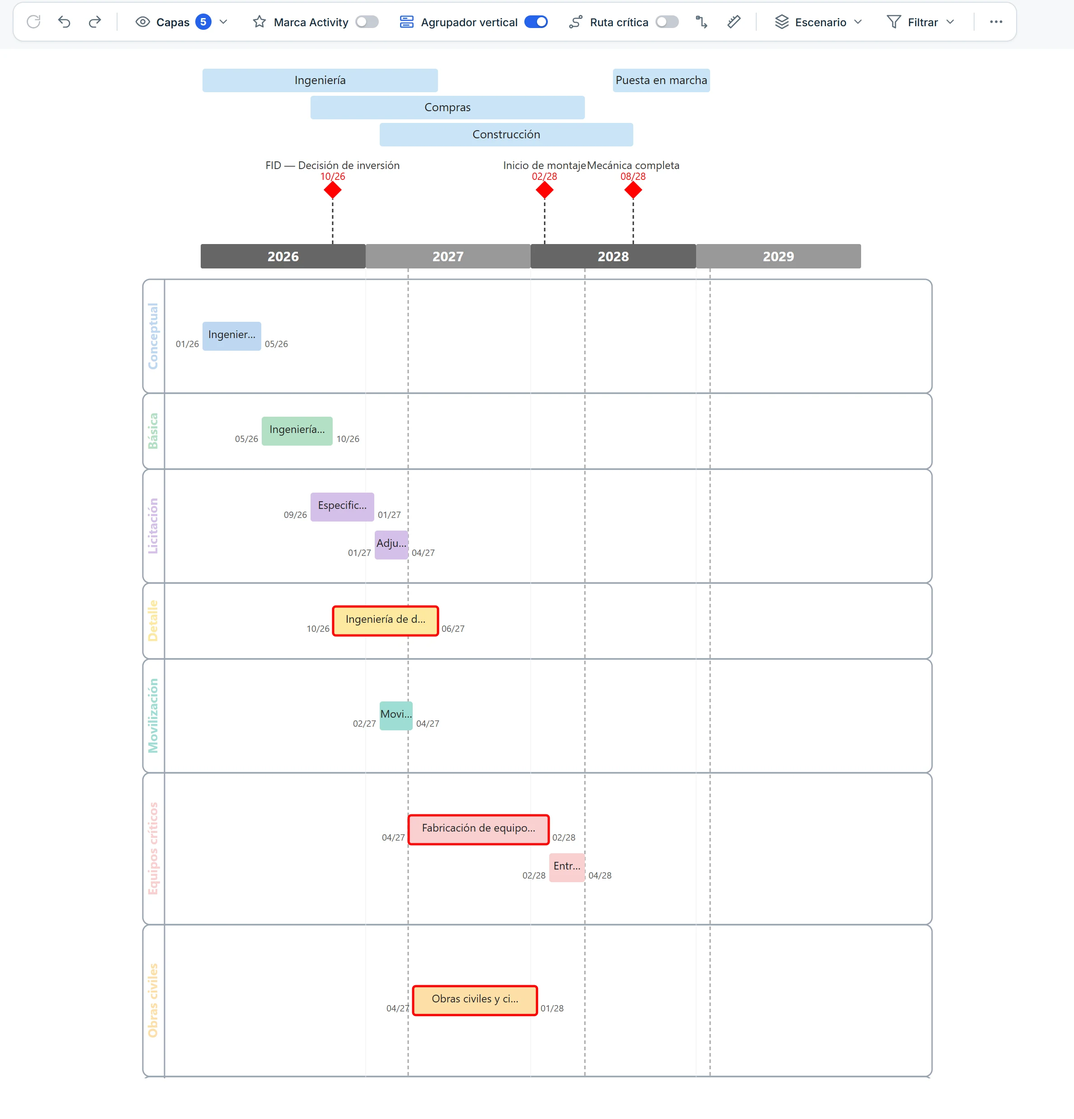
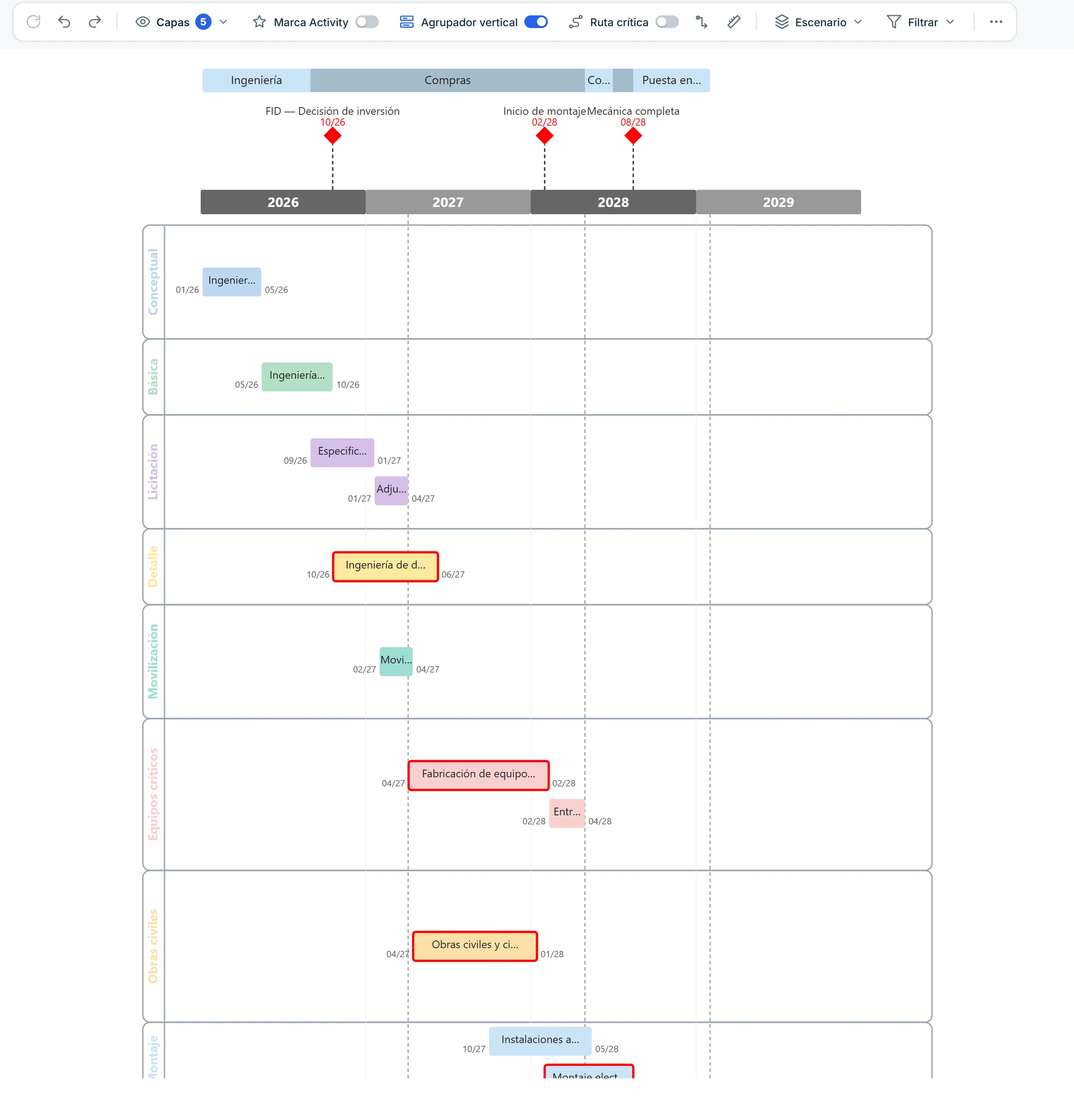
LdT: borde configurable en años y barras; Agrupador horizontal en una fila con colores mezclados; hitos arrastrables
- Borde (grosor, estilo, color) para cada año y cada barra de tarea, con el menú de borde existente
- Agrupador horizontal: una sola fila; los tramos superpuestos se pintan con la mezcla de colores y los nombres se abrevian a su tramo
- Un hito puede pasar por encima del agrupador horizontal (sin agrandar el área) y se arrastra con el mouse para cambiar su Distancia al eje
- Manual e Historial actualizados; figuras recapturadas

diff --git a/src/OpenGanttLab 3.1.html b/src/OpenGanttLab 3.1.html
@@ -1904,6 +1904,10 @@ tr.ed-mv input.eirp,tr.ed-mv input.efrp,tr.ed-mv input.edur{background:#fff1cf;b
       <span id="pbmSwatch" style="width:22px;height:16px;display:inline-block;border:1px solid var(--line);border-radius:2px;cursor:pointer" title="Clic para cambiar color barra"></span>
       <span class="pop-unit" style="font-size:8px">clic para cambiar</span>
     </div>
+    <div id="pbmBorderRow" style="display:flex;align-items:center;gap:5px;font-size:10px">
+      <span class="pop-unit" style="min-width:40px">Borde:</span>
+      <button type="button" class="rb-flat" style="padding:2px 8px" onclick="presOpenBarBorder(event)" title="Grosor, estilo y color del contorno de la barra">Configurar…</button>
+    </div>
     <div id="pbmPatternRow" style="display:flex;align-items:center;gap:5px;font-size:10px">
       <span class="pop-unit" style="min-width:40px">Trama:</span>
       <select id="pbmPattern" class="rb-sel" onchange="presSetPattern(this.value)" style="flex:1;max-width:none">
@@ -2382,6 +2386,10 @@ tr.ed-mv input.eirp,tr.ed-mv input.efrp,tr.ed-mv input.edur{background:#fff1cf;b
       <option value="14">14</option><option value="15" selected>15</option><option value="16">16</option>
       <option value="18">18</option><option value="20">20</option><option value="24">24</option>
     </select>
+  </div>
+  <div style="display:flex;align-items:center;gap:8px;margin-bottom:8px">
+    <span style="font-size:10px;color:#666;min-width:42px">Borde:</span>
+    <button type="button" onclick="presOpenYearBorder(event)" style="font-size:10px;padding:2px 8px;cursor:pointer;border:1px solid #ccc;border-radius:3px;background:#f5f5f5">Configurar…</button>
   </div>
   <div style="display:flex;align-items:center;gap:8px;margin-bottom:8px" title="Une este año con los siguientes en una sola banda de la franja">
     <span style="font-size:10px;color:#666;min-width:42px">Unir hasta:</span>
@@ -5089,7 +5097,7 @@ function _buildShareBlob(shared){
   const data={shared:!!shared,sessionName:AP_SESSION_NAME,tasks:TASKS.map(t=>({id:t.id,escenario:t.escenario||'',c1:t.c1,c2:t.c2,tarea:t.tarea,iLB:isoLocal(t.iLB),fLB:isoLocal(t.fLB),iRP:isoLocal(t.iRP),fRP:isoLocal(t.fRP),av:t.av,hito:t.hito,evento:t.evento,crit:t.crit,marca2:t.marca2||'',summary:t.summary||false,pid:t.pid||'',preds:t.preds||'',pscope:t.pscope||''})),
     scenarios:SCENARIOS,on:SCEN_ON,color:SCEN_COLOR,escColor:ESC_COLOR,cat2color:CAT2_COLOR,eventocolor:EVENTO_COLOR,presOpts:PRES_OPTS,presHidden:[...PRES_HIDDEN_KEYS],presTextBoxes:PRES_TEXTBOXES,presShapes:PRES_SHAPES,ganttTextBoxes:GANTT_TEXTBOXES,ganttOrder:GANTT_ORDER,ganttC2Order:GANTT_C2_ORDER,ganttTaskOrder:GANTT_TASK_ORDER,
     scale:document.getElementById('scale').value,mode:document.querySelector('input[name=mode]:checked').value,
-    showLB:document.getElementById('showLB').checked,showDeps:document.getElementById('showDeps').checked,showDates:document.getElementById('showDates').checked,presShowDates:document.getElementById('presShowDates').checked,presShowSubproc:(document.getElementById('presShowSubproc')||{}).checked,presSubprocField:(document.getElementById('presSubprocField')||{}).value,presSubprocGap:(document.getElementById('presSubprocGap')||{}).value,presSubprocPos:(document.getElementById('presSubprocPos')||{}).value,presSubprocColor:_presSubprocCol,presSubprocColors:_presSubprocColors,presYearMerge:PRES_YEAR_MERGE,presSubprocStyle:_presSubprocStyle,presConnectors:PRES_CONNECTORS,presLegendCfg:PRES_LEGEND_CFG,
+    showLB:document.getElementById('showLB').checked,showDeps:document.getElementById('showDeps').checked,showDates:document.getElementById('showDates').checked,presShowDates:document.getElementById('presShowDates').checked,presShowSubproc:(document.getElementById('presShowSubproc')||{}).checked,presSubprocField:(document.getElementById('presSubprocField')||{}).value,presSubprocGap:(document.getElementById('presSubprocGap')||{}).value,presSubprocPos:(document.getElementById('presSubprocPos')||{}).value,presSubprocColor:_presSubprocCol,presSubprocColors:_presSubprocColors,presYearMerge:PRES_YEAR_MERGE,presSubprocStyle:_presSubprocStyle,presYearBorder:PRES_YEAR_BORDER,presConnectors:PRES_CONNECTORS,presLegendCfg:PRES_LEGEND_CFG,
     presExtraH:+document.getElementById('presExtraH').value||0,presExtraTop:+document.getElementById('presExtraTop').value||0,presExtraBottom:+(document.getElementById('presExtraBottom')||{value:0}).value||0,presExtraLeft:+(document.getElementById('presExtraLeft')||{value:0}).value||0,presExtraRight:+(document.getElementById('presExtraRight')||{value:0}).value||0,presLegendPos:PRES_LEGEND_POS,presLegendSize:PRES_LEGEND_SIZE,
     fontFamily:document.getElementById('fontFamily').value,
     fontSizes:{dates:document.getElementById('fsDates').value,months:document.getElementById('fsMonths').value,years:document.getElementById('fsYears').value,cat1:document.getElementById('fsCat1').value,cat2:document.getElementById('fsCat2').value,tasks:document.getElementById('fsTasks').value},
@@ -5282,6 +5290,7 @@ function loadEmbedded(){
   _presSubprocColors=Object.assign({},d.presSubprocColors||{});
   PRES_YEAR_MERGE=Object.assign({},d.presYearMerge||{});
   _presSubprocStyle=Object.assign({},d.presSubprocStyle||{});
+  PRES_YEAR_BORDER=Object.assign({},d.presYearBorder||{});
   PRES_CONNECTORS=Array.isArray(d.presConnectors)?d.presConnectors:[];
   if(d.presLegendCfg)PRES_LEGEND_CFG=Object.assign({field:'c2',titleOn:false,title:'',titleSize:12,titleColor:'#2c3e50',fs:10,box:true,style:'swatch',hidden:[]},d.presLegendCfg);
   if(d.presExtraH!=null)document.getElementById('presExtraH').value=d.presExtraH;
@@ -5702,11 +5711,13 @@ function _pbmSyncMitoShape(o){
   const ta=document.getElementById('pbmMitoNote');if(ta&&document.activeElement!==ta)ta.value=(o&&o.miNote)||'';
 }
 // Borde de los rectángulos agrupadores (verticales: PRES_OPTS['RAPC1|'+valor]; horizontales: _presSubprocStyle[valor])
-let _presSubprocStyle={},_presBorderCtx=null;
+let _presSubprocStyle={},_presBorderCtx=null,PRES_YEAR_BORDER={};   // PRES_YEAR_BORDER: año (o 'LB'+año) → {borderW,borderColor,borderDash}
 function presDashAttr(d){return d==='dotted'?' stroke-dasharray="2,3"':d==='dashed'?' stroke-dasharray="8,4"':d==='dashed2'?' stroke-dasharray="10,4,2,4"':'';}
 function presBorderAttr(o,defCol,defW){return' stroke="'+((o&&o.borderColor)||defCol)+'" stroke-width="'+((o&&o.borderW!=null&&o.borderW!=='')?o.borderW:defW)+'"'+presDashAttr(o&&o.borderDash);}
 function _presBorderObj(ctx){
   if(ctx.kind==='rap'){const k='RAPC1|'+ctx.key;if(!PRES_OPTS[k])PRES_OPTS[k]={};return PRES_OPTS[k];}
+  if(ctx.kind==='year'){if(!PRES_YEAR_BORDER[ctx.key])PRES_YEAR_BORDER[ctx.key]={};return PRES_YEAR_BORDER[ctx.key];}
+  if(ctx.kind==='bar'){if(!PRES_OPTS[ctx.key])PRES_OPTS[ctx.key]={};return PRES_OPTS[ctx.key];}
   if(!_presSubprocStyle[ctx.key])_presSubprocStyle[ctx.key]={};return _presSubprocStyle[ctx.key];
 }
 function presOpenBorderMenu(kind,key,x,y){
@@ -5715,15 +5726,17 @@ function presOpenBorderMenu(kind,key,x,y){
   if(!m){m=document.createElement('div');m.id='presBorderMenu';m.style.cssText='position:fixed;z-index:100005;background:#fff;border:1px solid #ccc;border-radius:6px;box-shadow:0 4px 14px rgba(0,0,0,.18);padding:10px;width:220px;font-size:11px;color:#333;display:none';document.body.appendChild(m);
     document.addEventListener('mousedown',e=>{if(m.style.display!=='none'&&!m.contains(e.target)&&!e.target.closest('#colorPicker'))m.style.display='none';},true);}
   const o=_presBorderObj(_presBorderCtx),bw=(o.borderW!=null&&o.borderW!=='')?o.borderW:(kind==='rap'?1.5:0);
-  const dash=o.borderDash||'solid',col=o.borderColor||(kind==='rap'?'#9aa5b1':'#7a8ea3');
+  const dash=o.borderDash||'solid',col=o.borderColor||(kind==='rap'?'#9aa5b1':(kind==='year'||kind==='bar')?'#333333':'#7a8ea3');
   const S=(v,t)=>'<option value="'+v+'"'+(dash===v?' selected':'')+'>'+t+'</option>';
-  m.innerHTML='<div style="font-weight:700;margin-bottom:8px">Borde · '+String(key).replace(/</g,'&lt;')+'</div>'
+  m.innerHTML='<div style="font-weight:700;margin-bottom:8px">'+(kind==='bar'?'Borde de la barra':kind==='year'?'Borde del año '+String(key).replace(/^LB/,''):'Borde · '+String(key).replace(/</g,'&lt;'))+'</div>'
    +(kind==='rap'?'<div style="display:flex;gap:8px;align-items:center;margin-bottom:8px"><span style="min-width:44px;color:#666">Forma:</span><select id="pbdShape" onchange="presBorderSet()" style="flex:1;font:inherit;font-size:11px;padding:2px 4px;border:1px solid #ccc;border-radius:3px"><option value="box"'+(o.borderShape!=='line'?' selected':'')+'>Caja completa</option><option value="line"'+(o.borderShape==='line'?' selected':'')+'>Solo línea inferior</option></select></div>':'')
    +'<div style="display:flex;gap:8px;align-items:center;margin-bottom:8px"><span style="min-width:44px;color:#666">Grosor:</span><input type="number" id="pbdW" min="0" max="8" step="0.5" value="'+bw+'" oninput="presBorderSet()" style="width:56px;font:inherit;font-size:11px;padding:2px 4px;border:1px solid #ccc;border-radius:3px"><span style="color:#999">px</span></div>'
    +'<div style="display:flex;gap:8px;align-items:center;margin-bottom:8px"><span style="min-width:44px;color:#666">Estilo:</span><select id="pbdDash" onchange="presBorderSet()" style="flex:1;font:inherit;font-size:11px;padding:2px 4px;border:1px solid #ccc;border-radius:3px">'+S('solid','— Continua')+S('dotted','· · Punteada')+S('dashed','— Rayada')+S('dashed2','— Mixta')+'</select></div>'
    +'<div style="display:flex;gap:8px;align-items:center"><span style="min-width:44px;color:#666">Color:</span><span id="pbdColor" onclick="presBorderPickColor()" style="width:22px;height:16px;display:inline-block;border:1px solid #999;border-radius:2px;cursor:pointer;background:'+col+'"></span><button type="button" onclick="presBorderReset()" style="margin-left:auto;font-size:10px;padding:1px 6px;border:1px solid #ccc;border-radius:3px;background:#f5f5f5;cursor:pointer">Restablecer</button></div>';
   m.style.display='block';m.style.left=Math.max(4,Math.min(x+4,innerWidth-232))+'px';m.style.top=Math.max(4,Math.min(y+4,innerHeight-(m.offsetHeight||180)-8))+'px';
 }
+function presOpenYearBorder(e){e.stopPropagation();presOpenBorderMenu('year',(_presYearIsLB?'LB':'')+_presYearKey,e.clientX,e.clientY);}
+function presOpenBarBorder(e){e.stopPropagation();if(!_presBarKey)return;presOpenBorderMenu('bar',_presBarKey,e.clientX,e.clientY);}
 function presBorderSet(){
   if(!_presBorderCtx)return;_presSnap();
   const o=_presBorderObj(_presBorderCtx),w=document.getElementById('pbdW'),d=document.getElementById('pbdDash'),s=document.getElementById('pbdShape');
@@ -5785,6 +5798,26 @@ function presLegendFill(){
    +vals.map(v=>'<label style="display:flex;align-items:center;gap:6px;font-size:11px;margin-bottom:3px;cursor:pointer"><input type="checkbox" '+(c.hidden.indexOf(v)<0?'checked':'')+' onchange="presLegendSet(\'hide\',{value:this.dataset.v,on:this.checked})" data-v="'+String(v).replace(/"/g,'&quot;')+'"><span style="width:10px;height:10px;border-radius:2px;background:'+presLegendColor(c.field,v)+';display:inline-block"></span>'+String(v||'(Sin valor)').replace(/</g,'&lt;')+'</label>').join('')
    +'<div style="font-size:10px;color:var(--muted);margin-top:6px">Arrastre la leyenda en la LdT para moverla.</div>';
 }
+// Arrastre vertical de un hito (Distancia al eje = opt.miYOffset): hacia arriba lo aleja del eje si está sobre él; hacia abajo si está bajo el eje
+(function(){
+  const pb=document.getElementById('presBody');if(!pb)return;
+  let st=null;
+  pb.addEventListener('mousedown',e=>{
+    if(e.button||_conMode||_impMode)return;
+    const el=e.target.closest&&e.target.closest('[data-pres-mito]');if(!el||el.hasAttribute('data-in-band'))return;
+    const key=el.dataset.presMito;if(!key)return;
+    st={key,y:e.clientY,drag:false,raf:0};
+  },true);
+  document.addEventListener('mousemove',e=>{
+    if(!st)return;
+    if(!st.drag){if(Math.abs(e.clientY-st.y)<4)return;st.drag=true;_presSnap();const o=PRES_OPTS[st.key]||(PRES_OPTS[st.key]={});st.o0=o.miYOffset||0;st.above=o.miAbove!==false;document.body.style.cursor='ns-resize';}
+    const z=(typeof PRES_ZOOM==='number'&&PRES_ZOOM>0)?PRES_ZOOM:1,d=(e.clientY-st.y)/z,o=PRES_OPTS[st.key];
+    o.miYOffset=Math.round(st.o0+(st.above?-d:d));
+    const inp=document.getElementById('pbmMitoYOffset');if(inp&&_presBarKey===st.key)inp.value=o.miYOffset;
+    if(st.raf)return;st.raf=requestAnimationFrame(()=>{if(st){st.raf=0;renderPres();}});
+  });
+  document.addEventListener('mouseup',()=>{if(st){const was=st.drag;st=null;document.body.style.cursor='';if(was)renderPres();}});
+})();
 let PRES_CONNECTORS=[]; // {id,a,b,type:'straight'|'z'|'l1'|'l2',color,w,dash,arrow} — a/b: claves de barras/hitos visibles
 let PRES_YEAR_MERGE={}; // año inicial → {to:año final, label:texto} — tramos que unen varios años en una sola banda de la franja
 let PRES_YEAR_WIDTH_MUL={}; // año (número) → multiplicador de ancho individual (0.5–4), aparte del multiplicador global "presYearWMul"
@@ -6245,15 +6278,14 @@ function _presSVG(all,S,TW,mn,mx,opts){
       const r=mp.get(v);if(!r)mp.set(v,{v,a,b});else{if(a<r.a)r.a=a;if(b>r.b)r.b=b;}});
     mp.forEach(r=>_spBands.push(r));
     _spBands.sort((p,q)=>p.a-q.a);
-    const _ends=[];
-    _spBands.forEach(r=>{let l=_ends.findIndex(e=>r.a>=e);if(l<0){l=_ends.length;_ends.push(0);}_ends[l]=r.b;r.lane=l;});
+    _spBands.forEach(r=>{r.lane=0;});   // una sola fila: la superposición se muestra mezclando colores
   }
   const _spLanes=_spBands.reduce((m,r)=>Math.max(m,r.lane+1),0),_spBH=Math.max(26,Math.round(fsz*2.2)),_spH=_spBands.length?_spLanes*(_spBH+4)-4+10:0;
   const _gapRaw=(document.getElementById('presSubprocGap')||{value:''}).value;
   const _gapMan=(_spBands.length&&_gapRaw!==''&&!isNaN(+_gapRaw))?Math.max(0,+_gapRaw):null;
   const _spPos=(document.getElementById('presSubprocPos')||{value:'top'}).value==='axis'?'axis':'top';
   const _gapAxis=_gapMan!==null?_gapMan:6,_spBlock=(_spBands.length&&_spPos==='axis')?_spH+_gapAxis:0;
-  const axisY0=(_spBands.length&&_spPos==='axis')?(titleH+Math.max(miTopH,_hoyGutter)+_topPad+_extraTop+_spBlock):(titleH+_spH+(_gapMan!==null?_gapMan:Math.max(miTopH,_hoyGutter)+_topPad)+_extraTop),axisH=yrH+segH;
+  const axisY0=(_spBands.length&&_spPos==='axis')?(titleH+Math.max(miTopH,_hoyGutter)+_topPad+_extraTop+_spBlock):(titleH+_spH+(_gapMan!==null?_gapMan:Math.max(miTopH,_hoyGutter)+Math.max(0,_topPad-_spH))+_extraTop),axisH=yrH+segH;
   // Medidas de tiempo (flecha doble): una franja de 26 px por medida bajo el eje de años; las tareas se desplazan hacia abajo
   const _dimKeys=new Set();all.forEach(t=>{_dimKeys.add(useLB?'LB|'+pkOf(t):pkOf(t));});
   const _dimVis=presVisibleDims(_dimKeys),_dimSpace=_dimVis.length*26;
@@ -6404,14 +6436,29 @@ function _presSVG(all,S,TW,mn,mx,opts){
     // necesita fuera de esta función para hacer hit-test contra la posición del puntero.
     _presLastRapBands=rapBands.map(b=>({c1:b.c1,startLy:b.startLy,rows:b.rows}));
   }
-  // Subprocesos (banda superior)
+  // Subprocesos (banda superior): una sola fila; donde dos bandas se superponen, el tramo común se pinta con la mezcla de sus colores
   if(_spBands.length){
-    const bh=_spBH;
-    _spBands.forEach((r,i)=>{const by=(_spPos==='axis'?axisY0-_gapAxis-(_spH-10):titleH+2)+r.lane*(_spBH+4);
-      const x0=x(new Date(r.a)),x1=x(new Date(r.b));
-      const bc=_presSubprocColors[r.v]||_presSubprocCol,lu=(()=>{try{return .299*parseInt(bc.slice(1,3),16)+.587*parseInt(bc.slice(3,5),16)+.114*parseInt(bc.slice(5,7),16);}catch{return 200;}})();
-      svg+=`<rect x="${x0}" y="${by}" width="${Math.max(4,x1-x0)}" height="${bh}" rx="3" fill="${bc}"${(_presSubprocStyle[r.v]&&(_presSubprocStyle[r.v].borderW>0))?presBorderAttr(_presSubprocStyle[r.v],'#7a8ea3',1):''} data-sp-band="${ex(r.v)}" style="cursor:pointer"><title>${ex(r.v)} — doble clic: color · clic derecho: borde</title></rect>`;
-      svg+=`<text x="${(x0+x1)/2}" y="${by+bh/2+fsz*0.35}" text-anchor="middle" font-size="${fsz+1}" fill="${lu<128?'#fff':'#222'}" pointer-events="none">${ex(r.v)}</text>`;
+    const bh=_spBH,by=(_spPos==='axis'?axisY0-_gapAxis-(_spH-10):titleH+2);
+    const hex=c=>{try{return[parseInt(c.slice(1,3),16),parseInt(c.slice(3,5),16),parseInt(c.slice(5,7),16)];}catch{return[200,220,240];}};
+    const lumaOf=c=>{const q=hex(c);return .299*q[0]+.587*q[1]+.114*q[2];};
+    const mix=(c1,c2)=>{const p=hex(c1),q=hex(c2);return'#'+[0,1,2].map(i=>Math.max(0,Math.min(255,Math.round((p[i]+q[i])/2*0.82))).toString(16).padStart(2,'0')).join('');};
+    const B=_spBands.map(r=>({r,x0:x(new Date(r.a)),x1:x(new Date(r.b)),bc:_presSubprocColors[r.v]||_presSubprocCol}));
+    B.forEach(o=>{
+      svg+=`<rect x="${o.x0}" y="${by}" width="${Math.max(4,o.x1-o.x0)}" height="${bh}" rx="3" fill="${o.bc}"${(_presSubprocStyle[o.r.v]&&(_presSubprocStyle[o.r.v].borderW>0))?presBorderAttr(_presSubprocStyle[o.r.v],'#7a8ea3',1):''} data-sp-band="${ex(o.r.v)}" style="cursor:pointer"><title>${ex(o.r.v)} — doble clic: color · clic derecho: borde</title></rect>`;
+    });
+    // tramos comunes
+    for(let i=0;i<B.length;i++)for(let j=i+1;j<B.length;j++){
+      const ox0=Math.max(B[i].x0,B[j].x0),ox1=Math.min(B[i].x1,B[j].x1);
+      if(ox1-ox0>1)svg+=`<rect x="${ox0}" y="${by}" width="${ox1-ox0}" height="${bh}" fill="${mix(B[i].bc,B[j].bc)}" pointer-events="none"><title>Se superponen: ${ex(B[i].r.v)} y ${ex(B[j].r.v)}</title></rect>`;
+    }
+    // nombres: en el tramo más ancho de cada banda que no comparte con otra (si no hay, en su centro)
+    B.forEach(o=>{
+      let segs=[[o.x0,o.x1]];
+      B.forEach(p=>{if(p===o)return;const nx=[];segs.forEach(s=>{if(p.x1<=s[0]||p.x0>=s[1]){nx.push(s);return;}if(p.x0>s[0])nx.push([s[0],p.x0]);if(p.x1<s[1])nx.push([p.x1,s[1]]);});segs=nx;});
+      const best=segs.sort((u,v)=>(v[1]-v[0])-(u[1]-u[0]))[0]||[o.x0,o.x1];
+      const under=segs.length?o.bc:mix(o.bc,o.bc);
+      const cw=(fsz+1)*0.56,maxCh=Math.max(3,Math.floor((best[1]-best[0]-8)/cw)),nm=String(o.r.v),txt=nm.length>maxCh?nm.slice(0,Math.max(1,maxCh-1))+'…':nm;
+      svg+=`<text x="${(best[0]+best[1])/2}" y="${by+bh/2+fsz*0.35}" text-anchor="middle" font-size="${fsz+1}" fill="${lumaOf(under)<128?'#fff':'#222'}" pointer-events="none">${ex(txt)}</text>`;
     });
   }
   if(_spBands.length)svg+=_spPos==='axis'
@@ -6440,7 +6487,8 @@ function _presSVG(all,S,TW,mn,mx,opts){
     const yrColors=useLB?PRES_LB_YEAR_COLORS:PRES_YEAR_COLORS;
     const yc=yrColors[m.yr]||(yIdx%2===0?'#666':'#999');
     const yrAttr=useLB?('data-pres-year-lb="'+m.yr+'"'):('data-pres-year="'+m.yr+'"');
-    svg+=`<rect x="${m.x0}" y="${axisY0}" width="${m.w}" height="${yrH}" rx="2" fill="${yc}" ${yrAttr} style="cursor:pointer"/>`;
+    const _yb=PRES_YEAR_BORDER[(useLB?'LB':'')+m.yr];
+    svg+=`<rect x="${m.x0}" y="${axisY0}" width="${m.w}" height="${yrH}" rx="2" fill="${yc}"${(_yb&&_yb.borderW>0)?presBorderAttr(_yb,'#333333',1):''} ${yrAttr} style="cursor:pointer"/>`;
     const yrTextColors=useLB?PRES_LB_YEAR_TEXT_COLORS:PRES_YEAR_TEXT_COLORS;
     const yfg=yrTextColors[m.yr]||'#fff';
     svg+=`<text x="${m.x0+m.w/2}" y="${axisY0+yrH/2+yrSz*0.35}" text-anchor="middle" font-size="${yrSz}" font-weight="bold" fill="${yfg}" pointer-events="none">${ex(m.lbl||m.yr)}</text>`;
@@ -6520,7 +6568,7 @@ function _presSVG(all,S,TW,mn,mx,opts){
     const yr2=taskY0+ly*layerH+(layerH-barH)/2,hr=barH;
     const _pcritW=+(document.getElementById('presCritW')||{value:2.5}).value||2.5;const crit=t.crit?` stroke="#FF0000" stroke-width="${_pcritW}"`:''
     const lbKey=useLB?'LB|'+key:key;
-    const barAttrs=`${crit} data-pres-bar="${ex(lbKey)}"${(lbKey===_presBarKey||_presMultiSel.has(lbKey))?' class="pres-sel"':''} style="cursor:pointer"`;
+    const barAttrs=`${(opt&&opt.borderW>0)?presBorderAttr(opt,'#333333',1):crit} data-pres-bar="${ex(lbKey)}"${(lbKey===_presBarKey||_presMultiSel.has(lbKey))?' class="pres-sel"':''} style="cursor:pointer"`;
     // Rectángulo base
     svg+=`<rect x="${xr1}" y="${yr2}" width="${bwr}" height="${hr}" rx="3" fill="${color}"${barAttrs}/>`;
     // Trama: elegir variante clara u oscura según luminancia del fondo
@@ -7370,7 +7418,7 @@ document.getElementById('presBody').addEventListener('dblclick',e=>{
     const ibtn=document.getElementById('pbmItalic');if(ibtn)ibtn.classList.toggle('active',!!opt.textItalic);
     const ubtn=document.getElementById('pbmUnder');if(ubtn)ubtn.classList.toggle('active',!!opt.textUnder);
     document.getElementById('pbmFondoRow').style.display='flex';
-    document.getElementById('pbmPatternRow').style.display='flex';
+    document.getElementById('pbmPatternRow').style.display='flex';{const _bb=document.getElementById('pbmBorderRow');if(_bb)_bb.style.display='flex';}
     document.getElementById('pbmDateRow').style.display='flex';
     document.getElementById('pbmTextRow').style.display='flex';
     document.getElementById('pbmAlignRow').style.display='flex';
@@ -7407,7 +7455,7 @@ document.getElementById('presBody').addEventListener('dblclick',e=>{
       const _pw=document.getElementById('pbmMitoDatePosWrap');if(_pw)_pw.style.display=_al==='out'?'flex':'none';
     }
     document.getElementById('pbmFondoRow').style.display='none';
-    document.getElementById('pbmPatternRow').style.display='none';
+    document.getElementById('pbmPatternRow').style.display='none';{const _bb=document.getElementById('pbmBorderRow');if(_bb)_bb.style.display='none';}
     document.getElementById('pbmDateRow').style.display='none';
     document.getElementById('pbmTextRow').style.display='none';
     document.getElementById('pbmLayerRow').style.display='none';
@@ -7444,7 +7492,7 @@ document.getElementById('presBody').addEventListener('dblclick',e=>{
     // Fondo compartido: mostrar solo Color, ocultar Trama y Altura
     document.getElementById('pbmSwatch').style.background=opt.color;
     document.getElementById('pbmFondoRow').style.display='flex';
-    document.getElementById('pbmPatternRow').style.display='none';
+    document.getElementById('pbmPatternRow').style.display='none';{const _bb=document.getElementById('pbmBorderRow');if(_bb)_bb.style.display='none';}
     document.getElementById('pbmDateRow').style.display='none';
     document.getElementById('pbmTextRow').style.display='none';
     document.getElementById('pbmLayerRow').style.display='none';
@@ -8322,7 +8370,7 @@ function presOpenC1LabelMenu(c1,clientX,clientY){
   document.getElementById('pbmBold').classList.toggle('active',opt.textBold!==false);
   // Solo Nombre + Color de texto + Tamaño/estilos — ocultar el resto del panel
   document.getElementById('pbmFondoRow').style.display='none';
-  document.getElementById('pbmPatternRow').style.display='none';
+  document.getElementById('pbmPatternRow').style.display='none';{const _bb=document.getElementById('pbmBorderRow');if(_bb)_bb.style.display='none';}
   document.getElementById('pbmDateRow').style.display='none';
   document.getElementById('pbmLayerRow').style.display='none';
   document.getElementById('pbmMitoRow').style.display='none';
@@ -11689,8 +11737,8 @@ document.addEventListener('keydown',e=>{
             <span style="font-weight:400;font-size:11px;opacity:.85">Línea de Tiempo: agrupadores, Timeline Delta, conectores y medidas de tiempo; Análisis de escenarios</span>
           </div>
           <ul style="margin:8px 0;padding-left:20px;font-size:12px;line-height:1.8">
-            <li><b>Agrupador vertical y horizontal:</b> el «Agrupador» pasa a llamarse <b>Agrupador vertical</b> (hasta 4 niveles anidados, columna a elección, asas de ajuste). Nuevo <b>Agrupador horizontal</b>: una banda por valor de la columna elegida (Categoría 1 por defecto) sobre la franja de años (las que se solapan en fechas se apilan en filas; se coloca encima de los hitos o pegado a la franja de años), con color propio por banda (doble clic), espacio hasta los años automático o ajustable arrastrando, y borde configurable. Ambos van juntos en Capas → Modo de vista.</li>
-            <li><b>Borde de los agrupadores (clic derecho):</b> forma (caja completa o solo línea inferior), grosor, estilo y color, por banda.</li>
+            <li><b>Agrupador vertical y horizontal:</b> el «Agrupador» pasa a llamarse <b>Agrupador vertical</b> (hasta 4 niveles anidados, columna a elección, asas de ajuste). Nuevo <b>Agrupador horizontal</b>: una banda por valor de la columna elegida (Categoría 1 por defecto) sobre la franja de años (una sola fila: donde dos bandas se superponen, el tramo común se pinta con la mezcla de sus colores; se coloca encima de los hitos o pegado a la franja de años); los hitos se arrastran con el mouse para cambiar su «Distancia al eje» y pueden pasar por encima del agrupador, con color propio por banda (doble clic), espacio hasta los años automático o ajustable arrastrando, y borde configurable. Ambos van juntos en Capas → Modo de vista.</li>
+            <li><b>Borde (grosor, estilo y color):</b> de los agrupadores (clic derecho; forma caja completa o solo línea inferior), de cada año (menú del año → Borde) y de cada barra de tarea (panel de la barra → Borde).</li>
             <li><b>Franja de años:</b> doble clic en un año → «Unir hasta» funde varios años en un tramo (p. ej. «2030 - 2033») con texto editable. En Vista Hitos el eje se calcula solo con los hitos.</li>
             <li><b>Timeline Delta:</b> nuevo modo que compara los hitos de dos escenarios (A y B) con flecha de desviación y columna «Δ días»; usa la escala, el formato de fecha, los años, los filtros y los controles de la Línea de Tiempo.</li>
             <li><b>Vista Hitos:</b> botón de opciones con «Días desplazados entre escenarios» (línea en escuadra con «+N días» entre el mismo hito de bandas consecutivas); con «Días transcurridos» el hito muestra «diast: N» arriba, la fecha bajo el rombo y el nombre a la derecha.</li>

diff --git a/docs/manual/index.html b/docs/manual/index.html
@@ -458,14 +458,14 @@
 <tr><td>Arrastrar</td><td>Mueve la barra o el hito.</td></tr>
 <tr><td><kbd>Ctrl</kbd> o <kbd>Shift</kbd> + clic</td><td>Agrega barras a la selección; el doble clic las edita todas a la vez.</td></tr>
 <tr><td>Clic en un espacio en blanco</td><td>Limpia la selección.</td></tr>
-<tr><td>Doble clic en un año</td><td>Abre su menú: color de fondo y de fuente, escala, ancho y la opción de <b>unirlo con los años siguientes</b> en un tramo.</td></tr>
+<tr><td>Doble clic en un año</td><td>Abre su menú: color de fondo y de fuente, <b>borde</b>, escala, ancho y la opción de <b>unirlo con los años siguientes</b> en un tramo.</td></tr>
 <tr><td><kbd>Ctrl</kbd>+<kbd>Z</kbd> / <kbd>Ctrl</kbd>+<kbd>Y</kbd></td><td>Deshace y rehace cambios en la Línea de Tiempo.</td></tr>
 </table></div>
 <figure class="fig" id="figura-41"><div class="imgbox"><img src="images/annotated/fig-41-ldt-seleccion.webp" width="640" height="336" alt="Selección de barras" loading="lazy" decoding="async"></div><figcaption><span class="fn">Figura 41 — Selección de barras</span><span class="fd">Los elementos seleccionados se resaltan; con varios seleccionados, el doble clic edita todos a la vez.</span><ol class="legend"><li>Barra seleccionada con un clic (borde punteado azul)</li><li>Segunda barra agregada con Ctrl + clic</li></ol></figcaption></figure>
 
 <h3 id="vistas--panel-edicion">El panel de edición</h3>
 <p>Un doble clic sobre una barra abre su panel de edición.</p>
-<figure class="fig" id="figura-42"><div class="imgbox"><img src="images/annotated/fig-42-ldt-panel-edicion.webp" width="751" height="627" alt="Panel de edición de una barra" loading="lazy" decoding="async"></div><figcaption><span class="fn">Figura 42 — Panel de edición de una barra</span><span class="fd">Todos los cambios del panel son visuales: nunca modifican la Tabla de Datos.</span><ol class="legend"><li>Barra seleccionada (doble clic)</li><li>Panel de edición</li></ol><div class="observe"><b>Qué observar</b><ul><li>Texto: nombre, color, tamaño, negrita, alineación y posición.</li><li>Fondo: color de la barra y trama.</li><li>Fechas: mostrar comienzo y fin, alinear y posición.</li><li>Posición: capa (arriba/abajo).</li></ul></div></figcaption></figure>
+<figure class="fig" id="figura-42"><div class="imgbox"><img src="images/annotated/fig-42-ldt-panel-edicion.webp" width="751" height="650" alt="Panel de edición de una barra" loading="lazy" decoding="async"></div><figcaption><span class="fn">Figura 42 — Panel de edición de una barra</span><span class="fd">Todos los cambios del panel son visuales: nunca modifican la Tabla de Datos.</span><ol class="legend"><li>Barra seleccionada (doble clic)</li><li>Panel de edición</li></ol><div class="observe"><b>Qué observar</b><ul><li>Texto: nombre, color, tamaño, negrita, alineación y posición.</li><li>Fondo: color de la barra y trama.</li><li>Fechas: mostrar comienzo y fin, alinear y posición.</li><li>Posición: capa (arriba/abajo).</li></ul></div></figcaption></figure>
 <div class="callout warn" role="note"><svg class="ic" viewBox="0 0 24 24" aria-hidden="true"><path d="M10.3 3.9 1.8 18a2 2 0 0 0 1.7 3h17a2 2 0 0 0 1.7-3L13.7 3.9a2 2 0 0 0-3.4 0z"/><path d="M12 9v4"/><path d="M12 17h.01"/></svg><div class="cb"><div class="ct">Lo visual no cambia los datos</div><p>Editar el texto o el color en la Línea de Tiempo solo afecta la presentación. El dato real de la tabla, del Gantt, del Excel y del XML no se toca. La única excepción es la sección <span class="ui">Dependencias</span> descrita abajo.</p></div></div>
 
 <h3 id="vistas--panel-dependencias">Dependencias desde el panel</h3>
@@ -506,7 +506,8 @@
 <figure class="fig" id="figura-44"><div class="imgbox"><img src="images/annotated/fig-44-ldt-c1-bandas.webp" width="905" height="760" alt="Bandas del Agrupador" loading="lazy" decoding="async"></div><figcaption><span class="fn">Figura 44 — Bandas del Agrupador</span><span class="fd">Cada Categoría 1 es una banda con su etiqueta.</span><ol class="legend"><li>Etiqueta vertical de la banda: se selecciona y se arrastra para reordenar</li><li>Banda de Categoría 1: su borde inferior se arrastra para ajustar el alto</li></ol></figcaption></figure>
 <figure class="fig" id="figura-45"><div class="imgbox"><img src="images/screenshots/fig-45-ldt-agrupador-niveles.webp" width="1188" height="1238" alt="Agrupador de dos niveles" loading="lazy" decoding="async"></div><figcaption><span class="fn">Figura 45 — Agrupador de dos niveles</span><span class="fd">Categoría 1 como nivel 1 y Categoría 2 como nivel 2.</span><div class="observe"><b>Qué observar</b><ul><li>La columna del nivel externo (Categoría 1) es un solo recuadro que abarca sus bandas internas.</li><li>Cada banda interna (Categoría 2) tiene su propia etiqueta.</li></ul></div></figcaption></figure>
 
-<h3 id="vistas--borde-agrupador">Estilo del borde de los agrupadores</h3>
+<h3 id="vistas--borde-agrupador">Estilo del borde de los agrupadores, años y tareas</h3>
+<p>El mismo menú de borde sirve para tres elementos: <b>botón «Configurar…» junto a «Borde»</b> en el menú de un año (doble clic en el año) y en la sección <span class="ui">Fondo</span> del panel de una barra de tarea (doble clic en la barra). Una barra con borde propio reemplaza al borde rojo de la ruta crítica.</p>
 <p>Un <b>clic derecho</b> sobre la etiqueta o el borde de una banda vertical (o sobre un rectángulo del agrupador horizontal) abre un menú con el estilo de su borde:</p>
 <ul>
 <li><b>Forma</b> (bandas verticales): <i>Caja completa</i> o <i>Solo línea inferior</i>. Con «solo línea» la banda queda como un separador entre grupos, por ejemplo una línea punteada larga entre fases.</li>
@@ -516,27 +517,29 @@
 <figure class="fig" id="figura-46"><div class="imgbox"><img src="images/screenshots/fig-46-agrupador-borde-menu.webp" width="313" height="261" alt="Menú de borde de un agrupador" loading="lazy" decoding="async"></div><figcaption><span class="fn">Figura 46 — Menú de borde de un agrupador</span><span class="fd">Clic derecho sobre la etiqueta de una banda.</span><div class="observe"><b>Qué observar</b><ul><li>Forma: caja completa o solo línea inferior.</li><li>Grosor, estilo y color del borde.</li></ul></div></figcaption></figure>
 
 <h2 id="vistas--agrupador-horizontal">Agrupador horizontal: subprocesos sobre los años</h2>
-<p>El <span class="ui">Agrupador horizontal</span> dibuja, encima de todo y bajo el título, un rectángulo por cada valor de la columna elegida. Cada rectángulo va del inicio de la primera tarea de ese valor al fin de la última, con el nombre centrado. Si las fechas de dos valores se solapan, sus rectángulos se apilan en filas para que ningún nombre quede tapado. Está pensado para mostrar las fases o subprocesos (por ejemplo «Subproceso B», «Subproceso C») sobre el tiempo. Su interruptor está junto al del Agrupador vertical en <span class="ui">Capas</span> → <b>Modo de vista</b>, y se usan a la vez.</p>
+<p>El <span class="ui">Agrupador horizontal</span> dibuja, encima de todo y bajo el título, un rectángulo por cada valor de la columna elegida. Cada rectángulo va del inicio de la primera tarea de ese valor al fin de la última, con el nombre centrado. Ocupa <b>una sola fila</b>: donde las fechas de dos valores se superponen, ese tramo común se pinta con la <b>mezcla de los colores</b> de ambos, y cada nombre se coloca en su tramo sin superposición (se abrevia si no cabe). Está pensado para mostrar las fases o subprocesos (por ejemplo «Subproceso B», «Subproceso C») sobre el tiempo. Su interruptor está junto al del Agrupador vertical en <span class="ui">Capas</span> → <b>Modo de vista</b>, y se usan a la vez.</p>
 <ul>
 <li><b>Agrupar por:</b> Categoría 1 (por defecto), Categoría 2 o Escenario, en el botón de opciones que aparece junto al interruptor.</li>
 <li><b>Posición:</b> <i>Encima de los hitos</i> (por defecto) o <i>Sobre la franja de años</i>, entre los hitos y los años: los hitos quedan arriba y sus líneas punteadas atraviesan las bandas hasta el eje.</li>
 <li><b>Color:</b> el selector de las opciones pinta todas las bandas; un <b>doble clic</b> sobre un rectángulo cambia solo el color de esa banda (el texto pasa a blanco con colores oscuros).</li>
 <li><b>Borde:</b> clic derecho sobre un rectángulo para dar grosor, estilo y color al contorno.</li>
+<li><b>Hitos por encima del agrupador:</b> con el agrupador encima de los hitos, un hito se puede arrastrar hacia arriba con el mouse (o subir con «Distancia al eje») y <b>pasa por encima de las bandas</b> sin agrandar el área; el área solo crece cuando llega al borde superior.</li>
 <li><b>Espacio hasta los años:</b> el espacio en blanco entre las bandas y la franja de años se ajusta solo (se reduce si no hay hitos encima del eje; en «Sobre la franja de años» queda en 6 px) y también a mano: arrastre el borde inferior de las bandas, o escriba los píxeles en el campo «Espacio» de las opciones. Se pueden pegar casi a los años (0 px). El botón «Auto» o un doble clic sobre el borde vuelven al automático.</li>
 </ul>
 <div class="figgrid">
 <figure class="fig" id="figura-47"><div class="imgbox"><img src="images/screenshots/fig-47-ldt-agrupador-horizontal.webp" width="1188" height="1238" alt="Agrupador horizontal con el vertical" loading="lazy" decoding="async"></div><figcaption><span class="fn">Figura 47 — Agrupador horizontal con el vertical</span><span class="fd">Subprocesos sobre los años.</span><div class="observe"><b>Qué observar</b><ul><li>Bandas de color sobre la franja de años, una por valor de la columna elegida.</li><li>Cada banda va del inicio de su primera tarea al fin de la última.</li><li>El Agrupador vertical (a la izquierda) puede usarse a la vez.</li></ul></div></figcaption></figure>
-<figure class="fig" id="figura-48"><div class="imgbox"><img src="images/screenshots/fig-48-ldt-agrupador-horizontal-eje.webp" width="890" height="930" alt="Agrupador horizontal sobre la franja de años" loading="lazy" decoding="async"></div><figcaption><span class="fn">Figura 48 — Agrupador horizontal sobre la franja de años</span><span class="fd">Posición «Sobre la franja de años».</span><div class="observe"><b>Qué observar</b><ul><li>Los hitos arriba, con sus líneas punteadas atravesando las bandas.</li><li>Las bandas pegadas a la franja de años.</li></ul></div></figcaption></figure>
+<figure class="fig" id="figura-48"><div class="imgbox"><img src="images/screenshots/fig-48-ldt-agrupador-horizontal-eje.webp" width="890" height="870" alt="Agrupador horizontal sobre la franja de años" loading="lazy" decoding="async"></div><figcaption><span class="fn">Figura 48 — Agrupador horizontal sobre la franja de años</span><span class="fd">Posición «Sobre la franja de años».</span><div class="observe"><b>Qué observar</b><ul><li>Los hitos arriba, con sus líneas punteadas atravesando las bandas.</li><li>Las bandas pegadas a la franja de años.</li></ul></div></figcaption></figure>
 <figure class="fig" id="figura-49"><div class="imgbox"><img src="images/screenshots/fig-49-agrupador-horizontal-opciones.webp" width="572" height="598" alt="Opciones del Agrupador horizontal" loading="lazy" decoding="async"></div><figcaption><span class="fn">Figura 49 — Opciones del Agrupador horizontal</span><span class="fd">Panel junto al interruptor.</span><div class="observe"><b>Qué observar</b><ul><li>Agrupar por: Categoría 1, Categoría 2 o Escenario.</li><li>Color de las bandas y espacio hasta la franja de años (vacío = automático).</li></ul></div></figcaption></figure>
 </div>
 
 <h2 id="vistas--tramos-anos">Franja de años: tramos</h2>
 <p>Un doble clic sobre un año abre su menú. Con <b>Unir hasta</b> se funden ese año y los siguientes en una sola banda de la franja (por ejemplo «2030 - 2033»), que conserva el color y la fuente del primer año. El campo <b>Texto</b> reemplaza la etiqueta. Para separar de nuevo, elija «(sin unir)». Los tramos se guardan con la sesión y con Compartir.</p>
-<figure class="fig" id="figura-50"><div class="imgbox"><img src="images/screenshots/fig-50-ldt-tramos-anos.webp" width="1025" height="546" alt="Tramo en la franja de años" loading="lazy" decoding="async"></div><figcaption><span class="fn">Figura 50 — Tramo en la franja de años</span><span class="fd">Doble clic sobre el primer año del tramo.</span><div class="observe"><b>Qué observar</b><ul><li>Los años 2027 y 2028 unidos en una sola banda.</li><li>El menú del año: Unir hasta, Texto, color, fuente, escala y ancho.</li></ul></div></figcaption></figure>
+<figure class="fig" id="figura-50"><div class="imgbox"><img src="images/screenshots/fig-50-ldt-tramos-anos.webp" width="1025" height="572" alt="Tramo en la franja de años" loading="lazy" decoding="async"></div><figcaption><span class="fn">Figura 50 — Tramo en la franja de años</span><span class="fd">Doble clic sobre el primer año del tramo.</span><div class="observe"><b>Qué observar</b><ul><li>Los años 2027 y 2028 unidos en una sola banda.</li><li>El menú del año: Unir hasta, Texto, color, fuente, escala y ancho.</li></ul></div></figcaption></figure>
 
 <h2 id="vistas--hitos-forma">Hitos: forma y texto adicional</h2>
 <p>El panel de edición de un hito (doble clic) incluye dos secciones:</p>
 <ul>
+<li><b>Mover con el mouse:</b> arrastrar un hito hacia arriba o abajo cambia su <b>Distancia al eje</b> (mismo valor del panel). Es solo visual.</li>
 <li><b>Forma:</b> rombo (por defecto), triángulo hacia abajo, triángulo hacia arriba, círculo, cuadrado o estrella. Solo cambia el dibujo; no cambia la fecha ni los datos.</li>
 <li><b>Texto adicional:</b> un texto libre de una o varias líneas bajo el hito (un monto, una reserva, una nota). Se <b>arrastra con el mouse</b> a cualquier posición y el botón «Restablecer posición» lo devuelve a su lugar. Es solo visual.</li>
 </ul>

diff --git a/docs/manual/content/06-vistas.html b/docs/manual/content/06-vistas.html
@@ -46,7 +46,7 @@
 <tr><td>Arrastrar</td><td>Mueve la barra o el hito.</td></tr>
 <tr><td><kbd>Ctrl</kbd> o <kbd>Shift</kbd> + clic</td><td>Agrega barras a la selección; el doble clic las edita todas a la vez.</td></tr>
 <tr><td>Clic en un espacio en blanco</td><td>Limpia la selección.</td></tr>
-<tr><td>Doble clic en un año</td><td>Abre su menú: color de fondo y de fuente, escala, ancho y la opción de <b>unirlo con los años siguientes</b> en un tramo.</td></tr>
+<tr><td>Doble clic en un año</td><td>Abre su menú: color de fondo y de fuente, <b>borde</b>, escala, ancho y la opción de <b>unirlo con los años siguientes</b> en un tramo.</td></tr>
 <tr><td><kbd>Ctrl</kbd>+<kbd>Z</kbd> / <kbd>Ctrl</kbd>+<kbd>Y</kbd></td><td>Deshace y rehace cambios en la Línea de Tiempo.</td></tr>
 </table>
 <fig slug="ldt-seleccion" t="Selección de barras" legend="Barra seleccionada con un clic (borde punteado azul)|Segunda barra agregada con Ctrl + clic">Los elementos seleccionados se resaltan; con varios seleccionados, el doble clic edita todos a la vez.</fig>
@@ -98,7 +98,8 @@
 <fig slug="ldt-c1-bandas" t="Bandas del Agrupador" legend="Etiqueta vertical de la banda: se selecciona y se arrastra para reordenar|Banda de Categoría 1: su borde inferior se arrastra para ajustar el alto">Cada Categoría 1 es una banda con su etiqueta.</fig>
 <fig slug="ldt-agrupador-niveles" t="Agrupador de dos niveles" observe="La columna del nivel externo (Categoría 1) es un solo recuadro que abarca sus bandas internas.|Cada banda interna (Categoría 2) tiene su propia etiqueta.">Categoría 1 como nivel 1 y Categoría 2 como nivel 2.</fig>
 
-<h3 id="borde-agrupador">Estilo del borde de los agrupadores</h3>
+<h3 id="borde-agrupador">Estilo del borde de los agrupadores, años y tareas</h3>
+<p>El mismo menú de borde sirve para tres elementos: <b>botón «Configurar…» junto a «Borde»</b> en el menú de un año (doble clic en el año) y en la sección <ui>Fondo</ui> del panel de una barra de tarea (doble clic en la barra). Una barra con borde propio reemplaza al borde rojo de la ruta crítica.</p>
 <p>Un <b>clic derecho</b> sobre la etiqueta o el borde de una banda vertical (o sobre un rectángulo del agrupador horizontal) abre un menú con el estilo de su borde:</p>
 <ul>
 <li><b>Forma</b> (bandas verticales): <i>Caja completa</i> o <i>Solo línea inferior</i>. Con «solo línea» la banda queda como un separador entre grupos, por ejemplo una línea punteada larga entre fases.</li>
@@ -108,12 +109,13 @@
 <fig slug="agrupador-borde-menu" t="Menú de borde de un agrupador" observe="Forma: caja completa o solo línea inferior.|Grosor, estilo y color del borde.">Clic derecho sobre la etiqueta de una banda.</fig>
 
 <h2 id="agrupador-horizontal">Agrupador horizontal: subprocesos sobre los años</h2>
-<p>El <ui>Agrupador horizontal</ui> dibuja, encima de todo y bajo el título, un rectángulo por cada valor de la columna elegida. Cada rectángulo va del inicio de la primera tarea de ese valor al fin de la última, con el nombre centrado. Si las fechas de dos valores se solapan, sus rectángulos se apilan en filas para que ningún nombre quede tapado. Está pensado para mostrar las fases o subprocesos (por ejemplo «Subproceso B», «Subproceso C») sobre el tiempo. Su interruptor está junto al del Agrupador vertical en <ui>Capas</ui> → <b>Modo de vista</b>, y se usan a la vez.</p>
+<p>El <ui>Agrupador horizontal</ui> dibuja, encima de todo y bajo el título, un rectángulo por cada valor de la columna elegida. Cada rectángulo va del inicio de la primera tarea de ese valor al fin de la última, con el nombre centrado. Ocupa <b>una sola fila</b>: donde las fechas de dos valores se superponen, ese tramo común se pinta con la <b>mezcla de los colores</b> de ambos, y cada nombre se coloca en su tramo sin superposición (se abrevia si no cabe). Está pensado para mostrar las fases o subprocesos (por ejemplo «Subproceso B», «Subproceso C») sobre el tiempo. Su interruptor está junto al del Agrupador vertical en <ui>Capas</ui> → <b>Modo de vista</b>, y se usan a la vez.</p>
 <ul>
 <li><b>Agrupar por:</b> Categoría 1 (por defecto), Categoría 2 o Escenario, en el botón de opciones que aparece junto al interruptor.</li>
 <li><b>Posición:</b> <i>Encima de los hitos</i> (por defecto) o <i>Sobre la franja de años</i>, entre los hitos y los años: los hitos quedan arriba y sus líneas punteadas atraviesan las bandas hasta el eje.</li>
 <li><b>Color:</b> el selector de las opciones pinta todas las bandas; un <b>doble clic</b> sobre un rectángulo cambia solo el color de esa banda (el texto pasa a blanco con colores oscuros).</li>
 <li><b>Borde:</b> clic derecho sobre un rectángulo para dar grosor, estilo y color al contorno.</li>
+<li><b>Hitos por encima del agrupador:</b> con el agrupador encima de los hitos, un hito se puede arrastrar hacia arriba con el mouse (o subir con «Distancia al eje») y <b>pasa por encima de las bandas</b> sin agrandar el área; el área solo crece cuando llega al borde superior.</li>
 <li><b>Espacio hasta los años:</b> el espacio en blanco entre las bandas y la franja de años se ajusta solo (se reduce si no hay hitos encima del eje; en «Sobre la franja de años» queda en 6 px) y también a mano: arrastre el borde inferior de las bandas, o escriba los píxeles en el campo «Espacio» de las opciones. Se pueden pegar casi a los años (0 px). El botón «Auto» o un doble clic sobre el borde vuelven al automático.</li>
 </ul>
 <figs>
@@ -129,6 +131,7 @@
 <h2 id="hitos-forma">Hitos: forma y texto adicional</h2>
 <p>El panel de edición de un hito (doble clic) incluye dos secciones:</p>
 <ul>
+<li><b>Mover con el mouse:</b> arrastrar un hito hacia arriba o abajo cambia su <b>Distancia al eje</b> (mismo valor del panel). Es solo visual.</li>
 <li><b>Forma:</b> rombo (por defecto), triángulo hacia abajo, triángulo hacia arriba, círculo, cuadrado o estrella. Solo cambia el dibujo; no cambia la fecha ni los datos.</li>
 <li><b>Texto adicional:</b> un texto libre de una o varias líneas bajo el hito (un monto, una reserva, una nota). Se <b>arrastra con el mouse</b> a cualquier posición y el botón «Restablecer posición» lo devuelve a su lugar. Es solo visual.</li>
 </ul>
